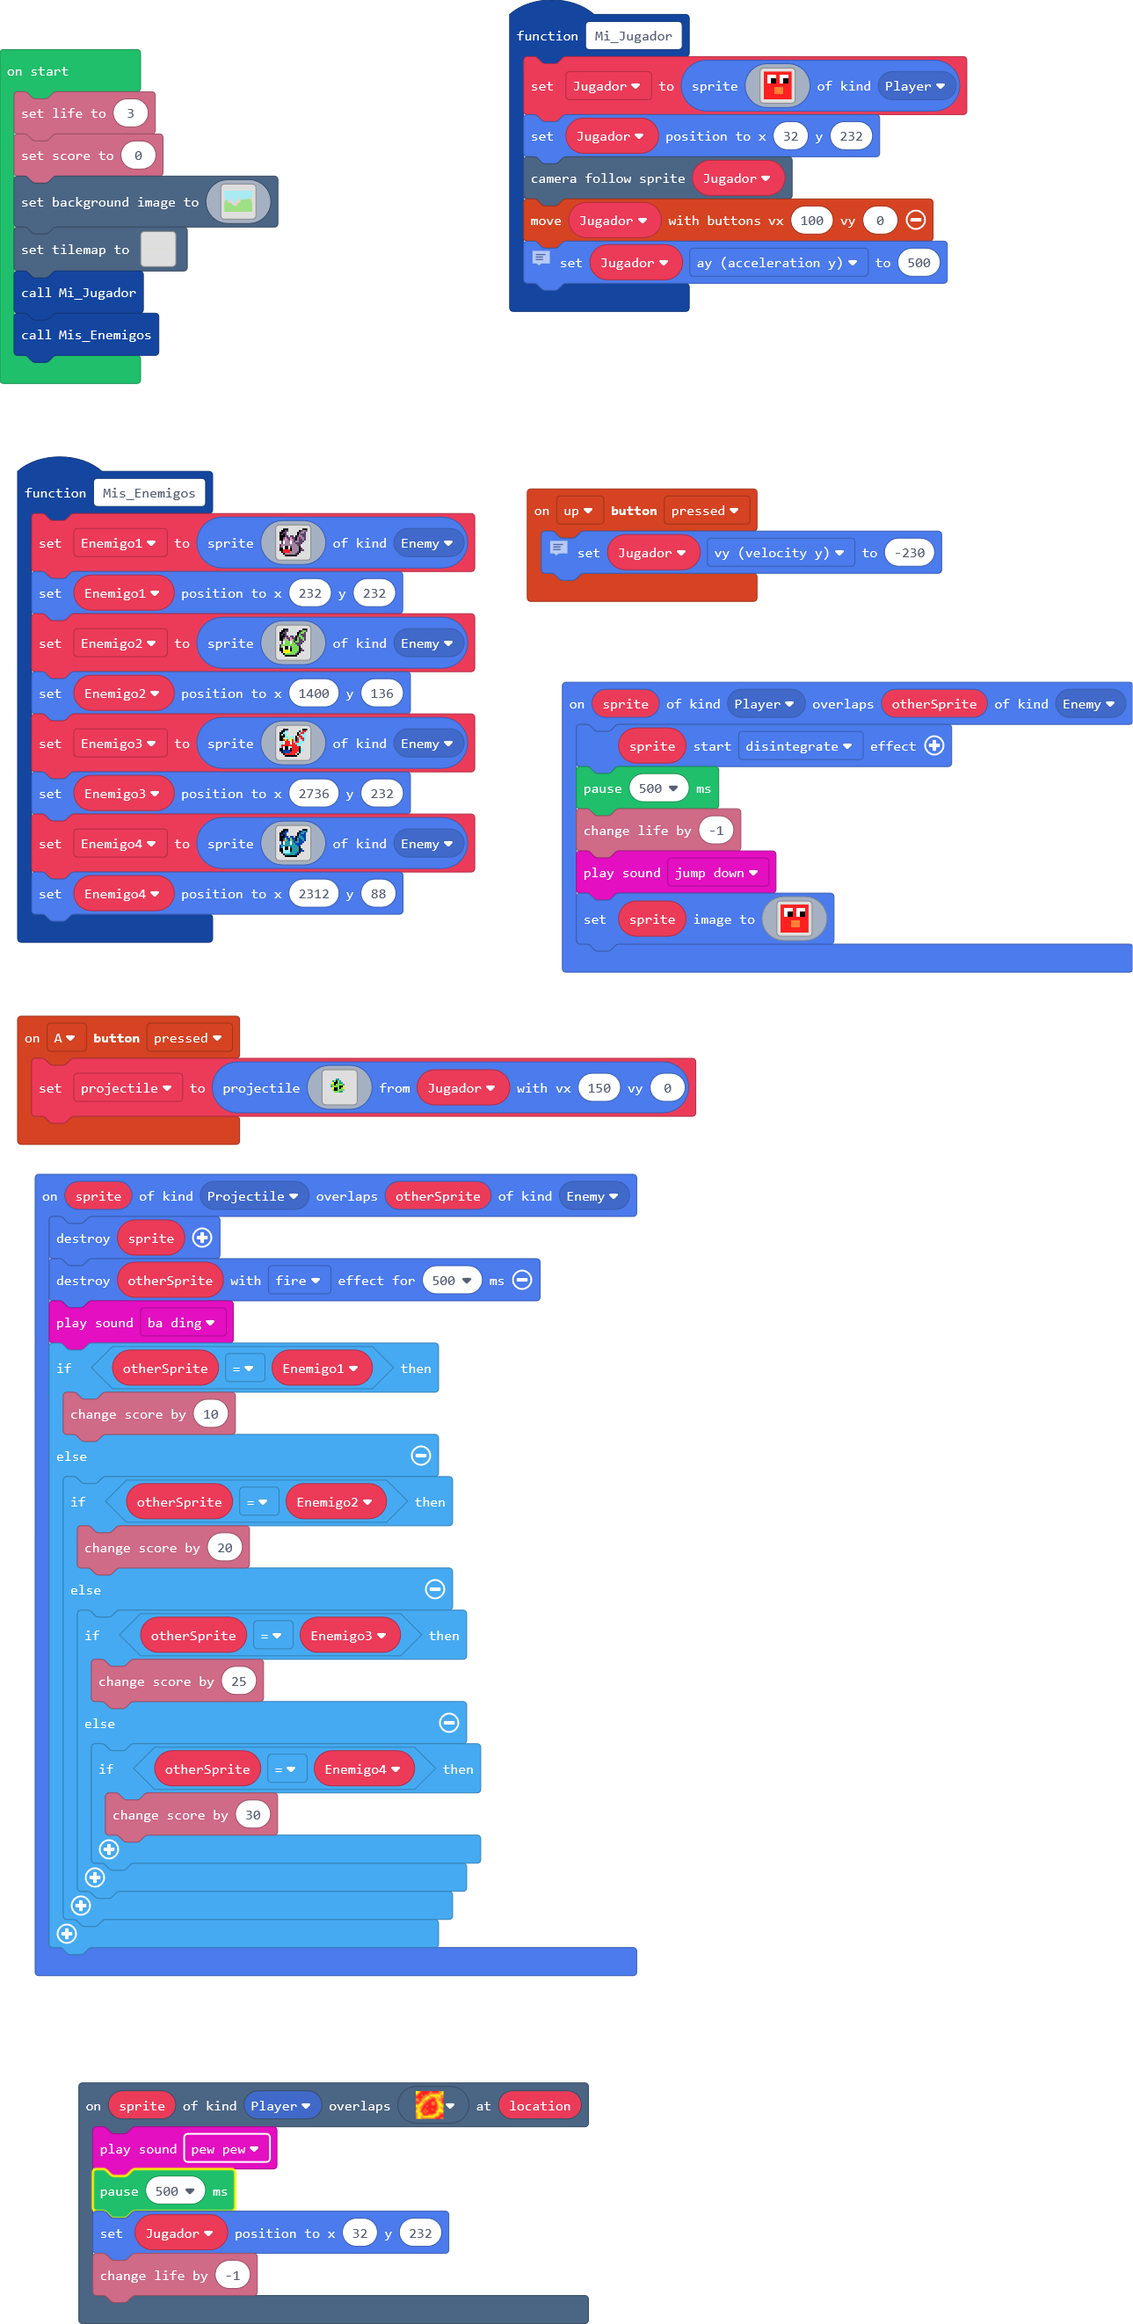
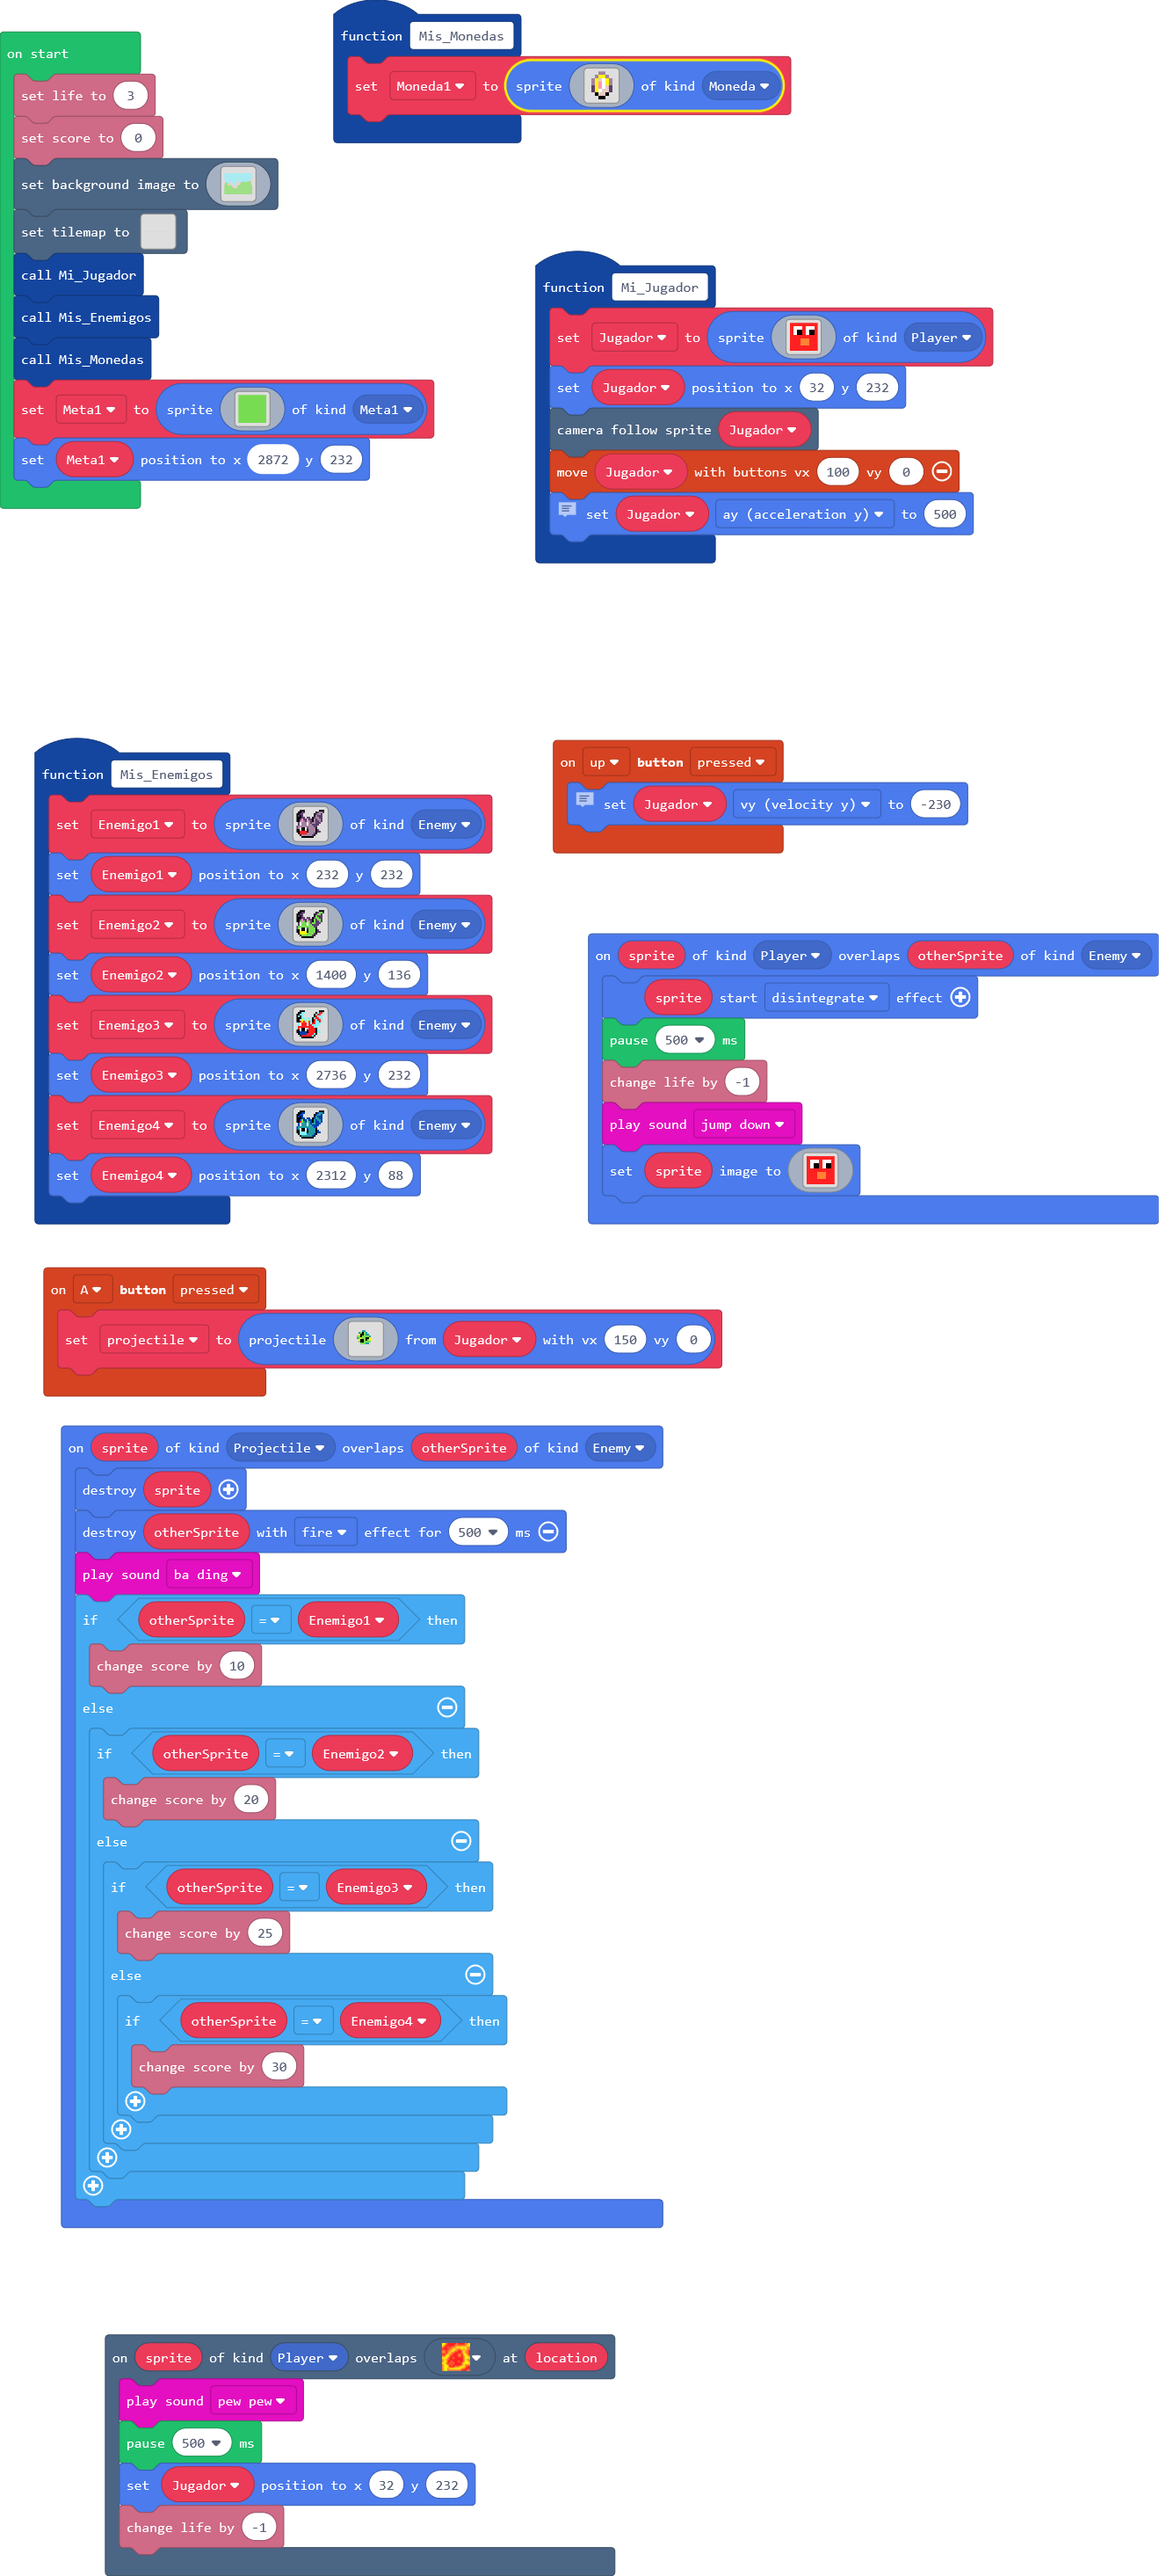
Spray meta y comenzando a crear monedas

diff --git a/main.ts b/main.ts
@@ -1,6 +1,8 @@
 namespace SpriteKind {
     export const Jugador_Inmune = SpriteKind.create()
     export const Player_Inmune = SpriteKind.create()
+    export const Meta1 = SpriteKind.create()
+    export const Moneda = SpriteKind.create()
 }
 namespace myTiles {
     //% blockIdentity=images._tile
@@ -100,6 +102,18 @@ f f 9 9 9 9 f 6 6 6 6 f 8 8 . .
 . . . f f f f f f f . . . . . . 
 `, SpriteKind.Enemy)
     Enemigo4.setPosition(2312, 88)
+}
+function Mis_Monedas () {
+    Moneda1 = sprites.create(img`
+. . . b b . . . 
+. . b 5 5 b . . 
+. b 5 d 1 5 b . 
+. b 5 3 1 5 b . 
+. c 5 3 1 d c . 
+. c 5 1 d d c . 
+. . f d d f . . 
+. . . f f . . . 
+`, SpriteKind.Moneda)
 }
 sprites.onOverlap(SpriteKind.Projectile, SpriteKind.Enemy, function (sprite, otherSprite) {
     sprite.destroy()
@@ -202,6 +216,7 @@ controller.up.onEvent(ControllerButtonEvent.Pressed, function () {
 })
 let Jugador: Sprite = null
 let projectile: Sprite = null
+let Moneda1: Sprite = null
 let Enemigo4: Sprite = null
 let Enemigo3: Sprite = null
 let Enemigo2: Sprite = null
@@ -355,3 +370,8 @@ tiles.setTilemap(tiles.createTilemap(
         ))
 Mi_Jugador()
 Mis_Enemigos()
+Mis_Monedas()
+let Meta1 = sprites.create(img`
+7 
+`, SpriteKind.Meta1)
+Meta1.setPosition(2872, 232)
